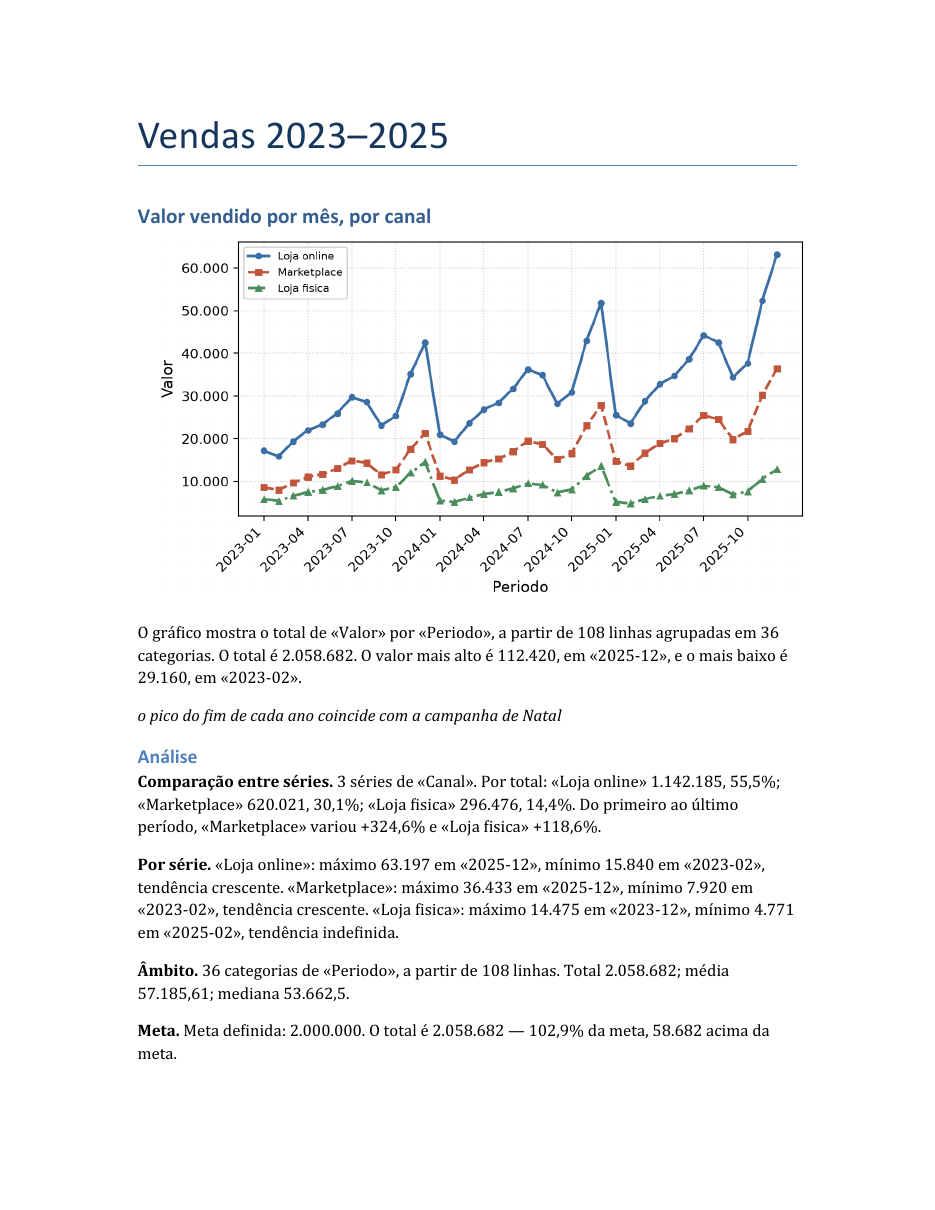
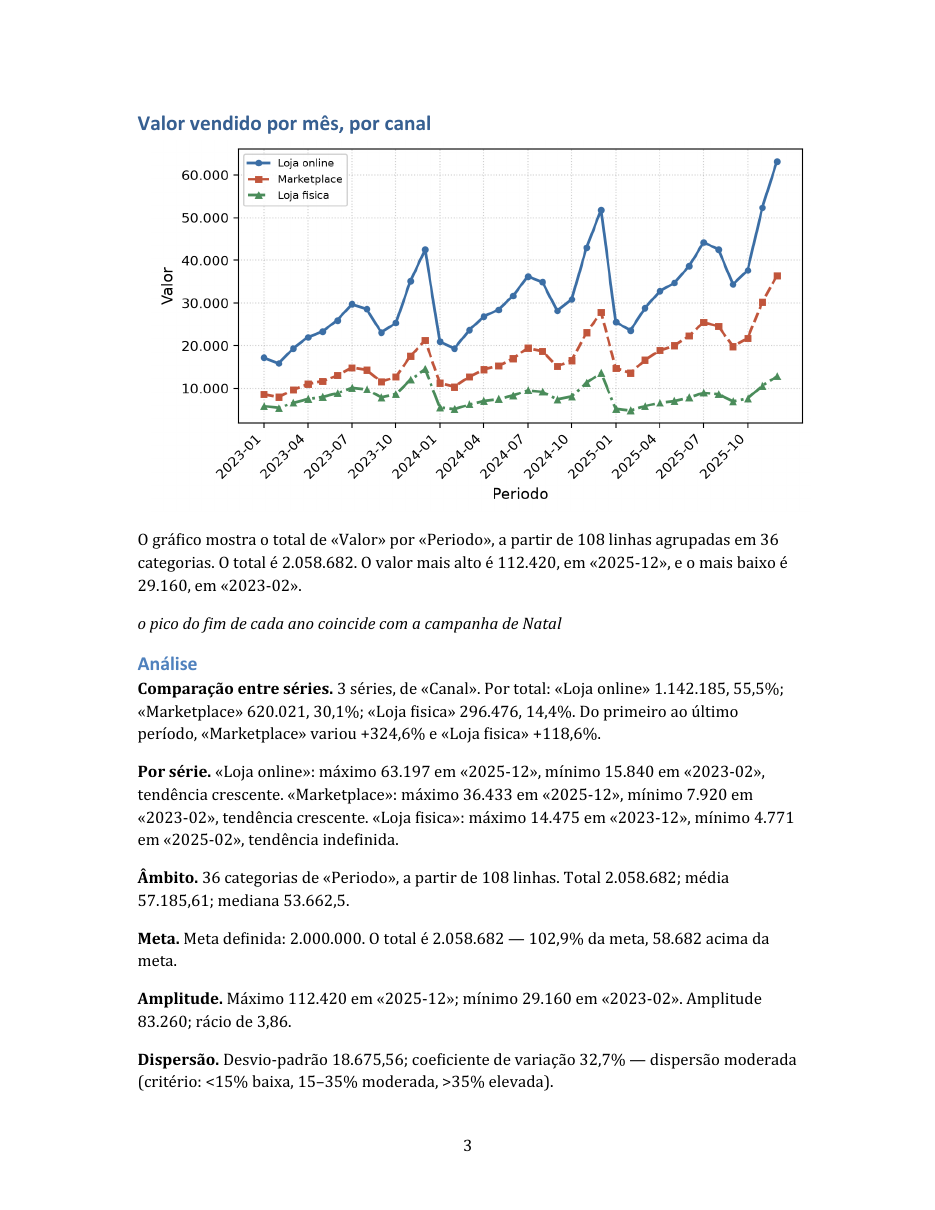
Pagina de rosto, indice e numeracao de paginas
O documento comecava logo num grafico, sem rosto e sem numeros de pagina:
parecia o resultado de um script, nao um relatorio. Quem abre o ficheiro
nota, e o objetivo declarado e mostra-lo a recrutadores.

Capa com titulo, data e ficheiro de origem. Indice dos graficos. Numero de
pagina no rodape, com a capa nao numerada.

Duas decisoes que valem a pena:

O indice e uma lista simples e nao um campo de indice do Word. O campo
aparece vazio ate alguem carregar em atualizar, e um indice em branco e
pior do que nenhum.

A captura do README passa a mostrar a primeira pagina COM grafico, e nao a
pagina 1. Com a capa nova, a pagina 1 e quase toda branca -- deixar a
captura na pagina 1 teria piorado o README em vez de melhorar.

diff --git a/scripts/gerar_relatorio.py b/scripts/gerar_relatorio.py
@@ -14,6 +14,7 @@ from __future__ import annotations
 
 import argparse
 import csv
+import datetime
 import io
 import json
 import math
@@ -33,6 +34,8 @@ import matplotlib.pyplot as plt
 import pandas as pd
 from docx import Document
 from docx.enum.text import WD_ALIGN_PARAGRAPH
+from docx.oxml import OxmlElement
+from docx.oxml.ns import qn
 from docx.shared import Inches, Pt
 
 TIPOS_GRAFICO = ("barras", "linhas", "circular")
@@ -2437,13 +2440,16 @@ def analise_anual(serie_anual: pd.Series) -> list[tuple[str, str]]:
 
 
 def montar_documento(plano: dict, resultados: list[dict], avisos: list[str],
-                     notas: list[str], saida: Path) -> None:
+                     notas: list[str], saida: Path,
+                     origem: Path | None = None) -> None:
     documento = Document()
-    documento.add_heading(plano["titulo_relatorio"], level=0)
+    numerar_paginas(documento)
+    pagina_de_rosto(documento, plano, origem)
+    documento.add_page_break()
+    indice(documento, resultados)
 
-    for posicao, resultado in enumerate(resultados):
-        if posicao > 0:
-            documento.add_page_break()
+    for resultado in resultados:
+        documento.add_page_break()
 
         grafico = resultado["grafico"]
         series = resultado["series"]
@@ -2512,6 +2518,69 @@ def montar_documento(plano: dict, resultados: list[dict], avisos: list[str],
             f"Não consigo escrever «{saida}»: o ficheiro está aberto noutro programa "
             "(provavelmente o Word). Fecha-o e tenta outra vez."
         ) from None
+
+
+def pagina_de_rosto(documento, plano: dict, origem: Path | None) -> None:
+    """Titulo, data e ficheiro de origem, numa pagina so."""
+    for _ in range(4):  # empurra o titulo para baixo do topo da folha
+        documento.add_paragraph()
+
+    titulo = documento.add_paragraph()
+    titulo.alignment = WD_ALIGN_PARAGRAPH.CENTER
+    corrida = titulo.add_run(plano["titulo_relatorio"])
+    corrida.bold = True
+    corrida.font.size = Pt(28)
+
+    data = documento.add_paragraph()
+    data.alignment = WD_ALIGN_PARAGRAPH.CENTER
+    hoje = datetime.date.today().strftime("%d/%m/%Y")
+    corrida = data.add_run(f"Relatório gerado em {hoje}")
+    corrida.font.size = Pt(11)
+
+    if origem is not None:
+        fonte = documento.add_paragraph()
+        fonte.alignment = WD_ALIGN_PARAGRAPH.CENTER
+        corrida = fonte.add_run(f"A partir de {origem.name}")
+        corrida.italic = True
+        corrida.font.size = Pt(10)
+
+
+def indice(documento, resultados: list[dict]) -> None:
+    """Lista dos graficos, pela ordem em que aparecem.
+
+    Sem numeros de pagina de proposito: um indice a serio do Word e um campo
+    que aparece vazio ate alguem carregar em «atualizar». Uma lista simples
+    esta sempre certa.
+    """
+    documento.add_heading("Índice", level=1)
+    for posicao, resultado in enumerate(resultados, start=1):
+        # numero OU marca, nunca os dois: «• 1. Titulo» le-se mal
+        documento.add_paragraph(f"{posicao}.  {resultado['grafico']['titulo']}")
+
+
+def numerar_paginas(documento) -> None:
+    """Numero de pagina no rodape, centrado.
+
+    O python-docx nao tem isto pronto: mete-se o campo PAGE a mao no XML.
+    A capa fica sem numero (primeira pagina diferente).
+    """
+    seccao = documento.sections[0]
+    seccao.different_first_page_header_footer = True
+
+    paragrafo = seccao.footer.paragraphs[0]
+    paragrafo.alignment = WD_ALIGN_PARAGRAPH.CENTER
+    corrida = paragrafo.add_run()
+    corrida.font.size = Pt(9)
+
+    abrir = OxmlElement("w:fldChar")
+    abrir.set(qn("w:fldCharType"), "begin")
+    instrucao = OxmlElement("w:instrText")
+    instrucao.set(qn("xml:space"), "preserve")
+    instrucao.text = "PAGE"
+    fechar = OxmlElement("w:fldChar")
+    fechar.set(qn("w:fldCharType"), "end")
+    for elemento in (abrir, instrucao, fechar):
+        corrida._r.append(elemento)
 
 
 def escrever_blocos(documento, blocos: list[tuple[str, str]]) -> None:
@@ -2601,7 +2670,8 @@ def executar(args) -> int:
             desenhar(resultado["conjunto"], resultado["series"],
                      resultado["grafico"], imagem)
             resultado["imagem"] = imagem
-        montar_documento(plano, preparados, avisos, notas, saida)
+        montar_documento(plano, preparados, avisos, notas, saida,
+                         origem=Path(args.dados))
     finally:
         shutil.rmtree(pasta_temporaria, ignore_errors=True)
 

diff --git a/testes/test_gerar_relatorio.py b/testes/test_gerar_relatorio.py
@@ -822,6 +822,62 @@ def test_tabela_truncada_avisa_antes_de_gerar(tmp_path):
     assert any("ficariam de fora" in a for a in avisos)
 
 
+# ------------------------------------------------ capa, indice e paginas
+
+
+def gerar_para_ler(tmp_path: Path, graficos: list[dict], **plano_extra):
+    """Gera um documento e devolve-o aberto, para inspecionar."""
+    from docx import Document
+
+    ficheiro = escrever_excel(tmp_path / "d.xlsx",
+                              {"Mes": MESES[:3], "Valor": [10, 20, 30]})
+    plano = tmp_path / "p.json"
+    corpo = {"titulo_relatorio": "Relatório de teste", "graficos": graficos}
+    corpo.update(plano_extra)
+    plano.write_text(json.dumps(corpo, ensure_ascii=False), encoding="utf-8")
+    saida = tmp_path / "r.docx"
+    correr_cli("--dados", str(ficheiro), "--plano", str(plano), "--saida", str(saida))
+    return Document(str(saida))
+
+
+def test_capa_traz_titulo_data_e_origem(tmp_path):
+    import datetime
+
+    documento = gerar_para_ler(tmp_path, [grafico()])
+    texto = "\n".join(p.text for p in documento.paragraphs)
+
+    assert "Relatório de teste" in texto
+    assert datetime.date.today().strftime("%d/%m/%Y") in texto
+    assert "d.xlsx" in texto
+
+
+def test_indice_lista_todos_os_graficos(tmp_path):
+    documento = gerar_para_ler(tmp_path, [
+        grafico(titulo="Primeiro"), grafico(titulo="Segundo"),
+    ])
+    texto = "\n".join(p.text for p in documento.paragraphs)
+
+    assert "Índice" in texto
+    assert "1.  Primeiro" in texto
+    assert "2.  Segundo" in texto
+
+
+def test_rodape_tem_numero_de_pagina(tmp_path):
+    documento = gerar_para_ler(tmp_path, [grafico()])
+    seccao = documento.sections[0]
+
+    assert seccao.different_first_page_header_footer is True, "a capa não devia ser numerada"
+    assert "PAGE" in seccao.footer.paragraphs[0]._p.xml
+
+
+def test_capa_nao_conta_como_grafico(tmp_path):
+    """A capa e o indice nao podem trazer imagens nem mexer nos numeros."""
+    documento = gerar_para_ler(tmp_path, [grafico()])
+    assert len(documento.inline_shapes) == 1
+    texto = "\n".join(p.text for p in documento.paragraphs)
+    assert "O total é 60." in texto
+
+
 # ------------------------------------- achados a usar a skill a serio
 # Apareceram ao seguir o SKILL.md a risca sobre dados publicos reais
 # (casos de covid em Portugal, 782 dias, 93 colunas, formato largo).

diff --git a/CLAUDE.md b/CLAUDE.md
@@ -128,6 +128,11 @@ testes/test_gerar_relatorio.py
 - **A linha de cabeçalho é a mais preenchida, não a que tem a seguinte igual.**
   A regra antiga rejeitava o cabeçalho verdadeiro assim que a primeira linha de
   dados tivesse uma célula vazia — banal em dados reais.
+- **O documento tem página de rosto, índice e numeração de páginas** (decisão de
+  16/08/2026; antes estava fora de âmbito). A capa não é numerada. O índice é
+  uma lista simples, **não um campo de índice do Word**: esse aparece vazio até
+  alguém carregar em «atualizar», e um índice em branco é pior do que nenhum.
+  A captura do README mostra a primeira página **com gráfico**, não a capa.
 - **Causas e recomendações ficam de fora para sempre.** O ficheiro tem números,
   não tem o mundo; e recomendar exige orçamento, capacidade e estratégia que não
   estão numa folha de cálculo. Não voltar a propor.
@@ -196,4 +201,4 @@ testes/test_gerar_relatorio.py
 ## 8. Fora de âmbito até alguém sentir a falta
 
 `barras_horizontais`, `area`, `dispersao`, células combinadas, filtros por
-coluna, numeração de páginas, saída em PDF ou PowerPoint.
+coluna (um gráfico por região), saída em PDF ou PowerPoint.

diff --git a/README.md b/README.md
@@ -31,6 +31,8 @@ plano, verifica os dados e gera o documento.
 - **Prevê os períodos seguintes, se pedires** — sempre com intervalo de confiança, e
   só quando a série dá garantias para isso.
 - Junta a tabela de dados, se pedires.
+- Monta o documento como um relatório: **página de rosto** com o título, a data e o
+  ficheiro de origem, **índice** dos gráficos e **numeração das páginas** no rodapé.
 - **Recusa gerar o relatório** quando encontra problemas nos dados, até tu dizeres
   que os aceitas.
 
